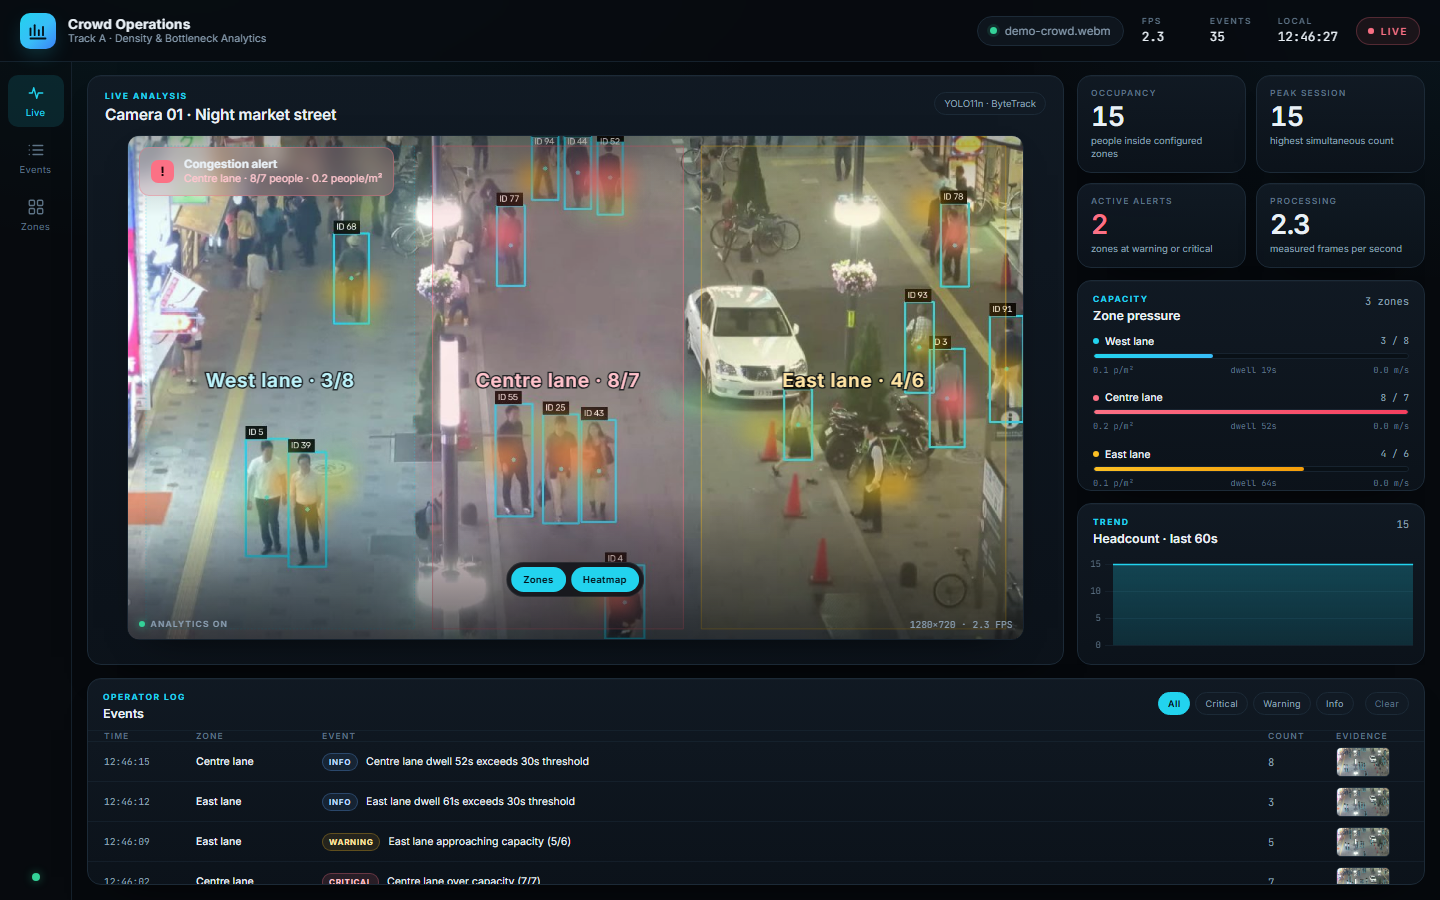
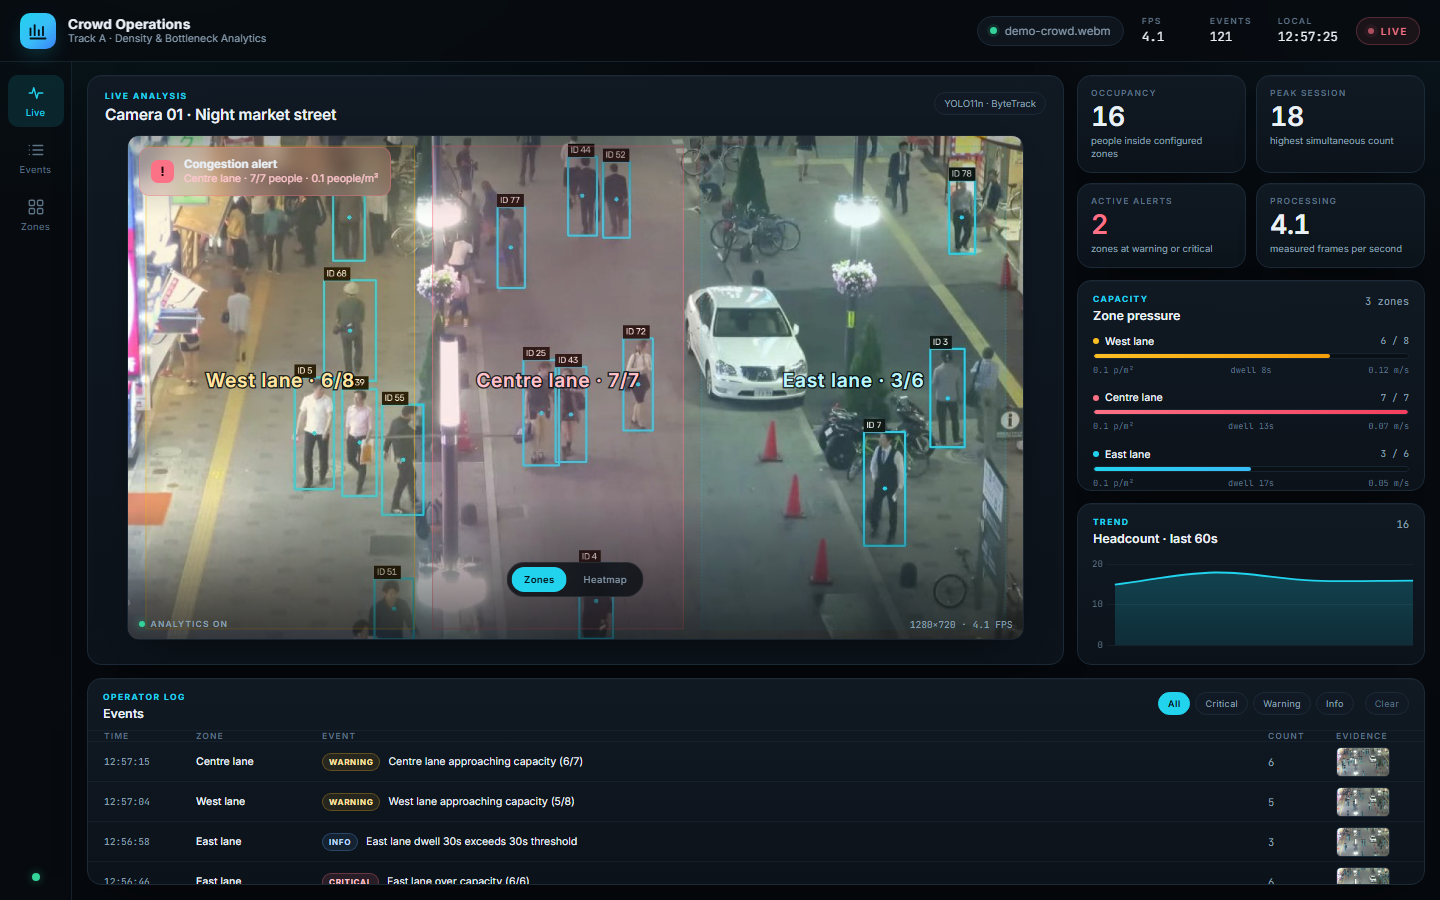
docs: refresh hero screenshot and match FPS claims to measured range
- retake dashboard screenshot at 1440x900 showing ok/warning/critical together
- quote 4-7 FPS with the dashboard open (was 5-7) and 5-9.5 worker-only
- show zone velocity to two decimals so sub-0.1 m/s readings are visible

diff --git a/static/js/app.js b/static/js/app.js
@@ -254,7 +254,7 @@
           " p/m²</span><span>dwell " +
           formatNumber(zone.max_dwell, 0) +
           "s</span><span>" +
-          formatNumber(zone.velocity, 1) +
+          formatNumber(zone.velocity, 2) +
           " m/s</span></div>" +
           "</div>"
         );

diff --git a/docs/demo.md b/docs/demo.md
@@ -49,7 +49,7 @@ open as a PDF or image in a third tab, and the README open in an editor.
 7. Open `http://127.0.0.1:5000` in a browser and let it run for at least 60 seconds. Check:
 
    - status badge says **LIVE**, not OFFLINE;
-   - FPS settles around **5–7**;
+   - FPS settles around **4–7**;
    - occupancy is roughly **10–18**;
    - boxes follow people and the three lanes are visible.
 
@@ -140,7 +140,7 @@ Do this in order; each item is visible on screen.
 1. **Video panel.** "These boxes are drawn server-side. The ID above each box
    comes from ByteTrack. The yellow tint marks the zones."
 2. **KPI row.** Point out current occupancy, peak, alert count and measured FPS.
-   Say the measured FPS out loud, e.g. "about 7 frames per second on this CPU".
+   Say the measured FPS out loud, e.g. "about 5 frames per second on this CPU".
    Do it now, before 5:20: the number drops to ~4.3 once the baseline starts.
 3. **Zone panel.** "West lane, Centre lane, East lane. Each has a capacity. The
    bar is count over capacity; the status changes from ok to warning to
@@ -168,7 +168,7 @@ Expected within one fresh pass of the 35 s clip:
   a 60 s window ranged from **1 to 7** live, and a full pass produced **7** on a
   quiet machine and **16** when loaded. The first event after a Clear arrived in
   **7.9 s**. State a range, not an exact number.
-- FPS **5–7** with this tab open *and the demo alone* — it drops to ~4.3 once
+- FPS **4–7** with this tab open *and the demo alone* — it drops to ~4.3 once
   the baseline starts at 5:20, so **quote the FPS number before 5:20**;
 - one pass takes about **60 s** at 6 FPS, or **~80 s** while both workers run,
   because the worker processes below its 10 FPS target and skips two of every
@@ -234,7 +234,7 @@ call. Everything else is geometry and rules, which is why it is testable."**
 
 Say:
 
-> "Known limits: 5 to 7 FPS, so near real time but not smooth. Density uses one
+> "Known limits: 4 to 7 FPS, so near real time but not smooth. Density uses one
 > fixed pixel-to-metre scale, so perspective biases it. No MOTA or IDF1, because
 > the clips have no labels. The MOT17 clip is non-commercial and YOLO is
 > AGPL-3.0, both documented. Next: per-camera homography and a multi-camera
@@ -292,7 +292,7 @@ python scripts\tune_zones.py configs\normal.json
 ## Q&A preparation
 
 **"Is this real time?"**
-Not quite. It processes about 5–7 frames per second on this CPU against a target
+Not quite. It processes about 4–7 frames per second on this CPU against a target
 of 10, and skips two of every three source frames, so the 35 s crowd clip takes
 roughly a minute to play through — about 1.7× slower than real time. It is not a
 30 FPS system, and it would not keep up with a live camera at full frame rate.
@@ -358,7 +358,7 @@ production WSGI server with authentication.
 | Baseline clip | `data/clips/normal-corridor.avi` (768×576, 10 fps, 79.5 s) |
 | Demo capacities | West 8, Centre 7, East 6 |
 | Demo rules | warning 0.6, alert 1.5 s, dwell 30 s, cooldown 30 s |
-| Measured FPS | 5–7 live, ~9.5 worker-only, 4–4.5 each with two servers, 5–9 offline |
+| Measured FPS | 4–7 live, 5–9.5 worker-only, 4–4.5 each with two servers, 5–9 offline |
 | One pass | ~60 s crowd clip (~80 s with both servers), ~3.2 min baseline while both run |
 | Tests | 19 passing (`pytest -q`) |
 | Clear log | Event log → **Clear** → confirm |

diff --git a/README.md b/README.md
@@ -121,8 +121,8 @@ spread comes from whatever else is running.
 
 | Condition | Measured |
 | --- | --- |
-| Worker + dashboard open in Chrome | **5–7 FPS** (5.1–6.9) |
-| Worker with no browser attached | **~9.5 FPS** (8.9–10.0) |
+| Worker + dashboard open in Chrome | **4–7 FPS** (3.6–6.9; lower when other apps are open) |
+| Worker with no browser attached | **~5–9.5 FPS** (4.2–10.0 depending on desktop load) |
 | Two servers at once (demo + baseline) | **~4–4.5 FPS each** |
 | Offline replay, no JPEG encoding or Flask | **5–9 FPS** (8.6 on a quiet machine) |
 
@@ -239,7 +239,8 @@ Full clip attribution: [`data/clips/CREDITS.md`](data/clips/CREDITS.md).
 - **No tracking accuracy metric.** The project does not report MOTA/IDF1
   because the bundled clips have no small hand-labelled evaluation split;
   detection quality is assessed visually. Do not claim benchmark accuracy.
-- **CPU throughput.** 5–7 FPS with the dashboard open on the development laptop.
+- **CPU throughput.** 4–7 FPS with the dashboard open on the development laptop,
+  less when other applications compete for the CPU.
   The pipeline skips source frames to keep playback near real time; a 35 s clip
   still takes about a minute, so it is not a 30 FPS live system.
 - **Perspective bias.** `pixels_per_meter` is a single fixed scale. People far

diff --git a/docs/architecture.md b/docs/architecture.md
@@ -193,7 +193,7 @@ On the development laptop (i5-1035G1, 4 cores / 8 threads):
 | Zone geometry + rules | sub-millisecond |
 | Browser polling + chart | negligible (JSON only) |
 
-That yields 5–7 FPS with the dashboard open, ~9.5 FPS with no browser attached,
+That yields 4–7 FPS with the dashboard open, 5–9.5 FPS with no browser attached,
 4–4.5 FPS per worker when two run at once, and 5–9 FPS offline, depending on what
 else is using the CPU. The target of 10 FPS is a pacing target, not a guarantee,
 so a pass through the 35 s clip takes about a minute with the dashboard open.

diff --git a/docs/decisions.md b/docs/decisions.md
@@ -308,7 +308,7 @@ coursework project with two known configs this is acceptable.
 
 ## Summary of trade-offs to state honestly
 
-- ~5–7 FPS on the development laptop, not 30 FPS.
+- ~4–7 FPS on the development laptop, not 30 FPS.
 - Density and speed are perspective-biased by a single scale factor.
 - No MOTA/IDF1 evaluation; detection quality is assessed visually.
 - MOT17 clip is non-commercial; YOLO is AGPL-3.0.
